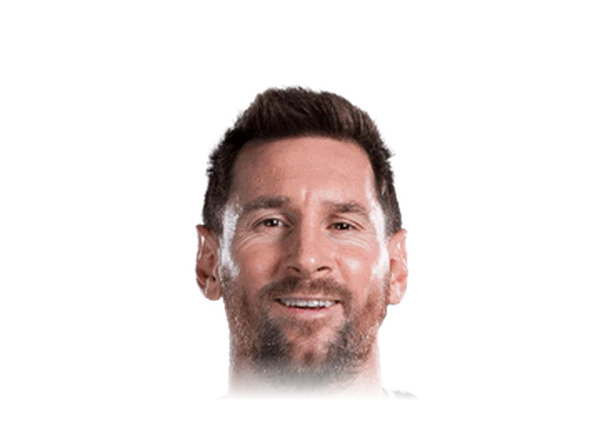
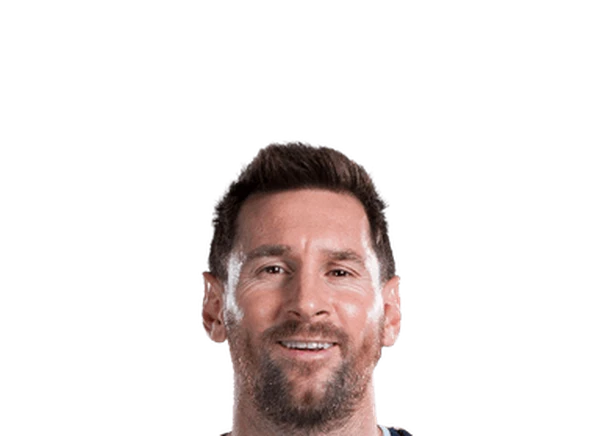
Revert "Soccer Home cards: faces raised, the neck fading into the card"
This reverts commit c7b33380d13947425cfe50881f3ae8a223392ea5.

Changed region(s): [[0.3, 0.1789, 0.69, 1.0], [0.66, 0.8945, 0.69, 0.9243]]

diff --git a/src/components/SoccerApp.jsx b/src/components/SoccerApp.jsx
@@ -143,7 +143,7 @@ const calcOvr = (b, types) => Math.round(SoccerSim.calcSoccerOVR?.(b, types) ?? 
 const archOf = (ovr, b, types) => (SoccerSim.getSoccerArchetype ?? soccerArchetype)(ovr, b, types)
 
 // Home's pool cards: three stars each. ESPN has no photo for most of them, so these cards (only these) use FotMob's
-// studio photos, framed like ESPN's, a little smaller and raised (public/headshots/soccer/fm-<FotMob id>.webp: 320px on 600x436, its bottom 36px up, the neck fading out over its last 46px), Messi's too so the six match
+// studio photos, framed like ESPN's, a little smaller (public/headshots/soccer/fm-<FotMob id>.webp: 300px on 600x436), Messi's too so the six match
 // (the owner, 2026-11-25). The middle face is the big one.
 const FACE_PICKS = {
   current: [['Lamine Yamal', 'soccer/fm-1467236'], ['Erling Haaland', 'soccer/fm-737066'], ['Kylian Mbappé', 'soccer/fm-701154']],
